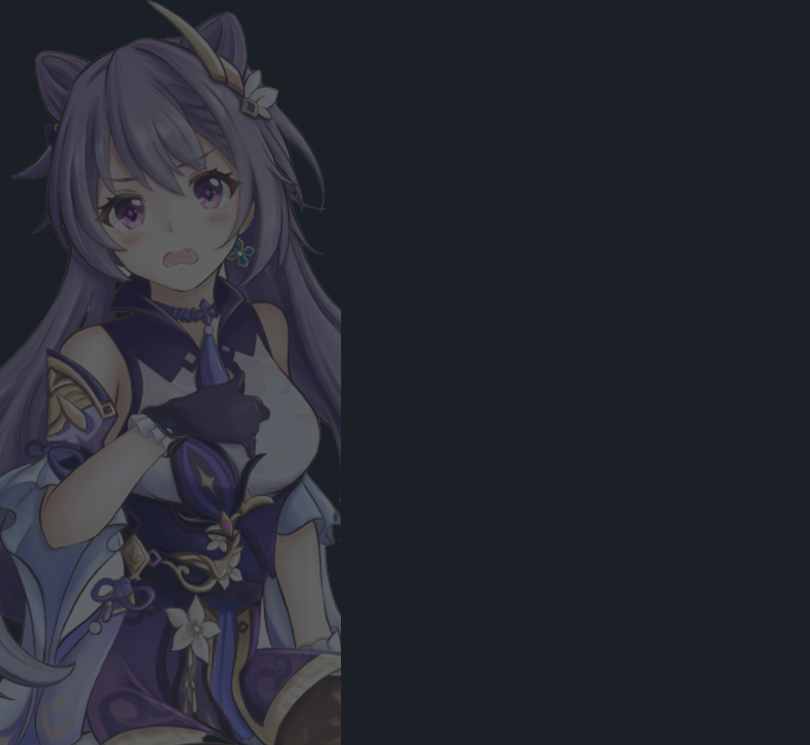
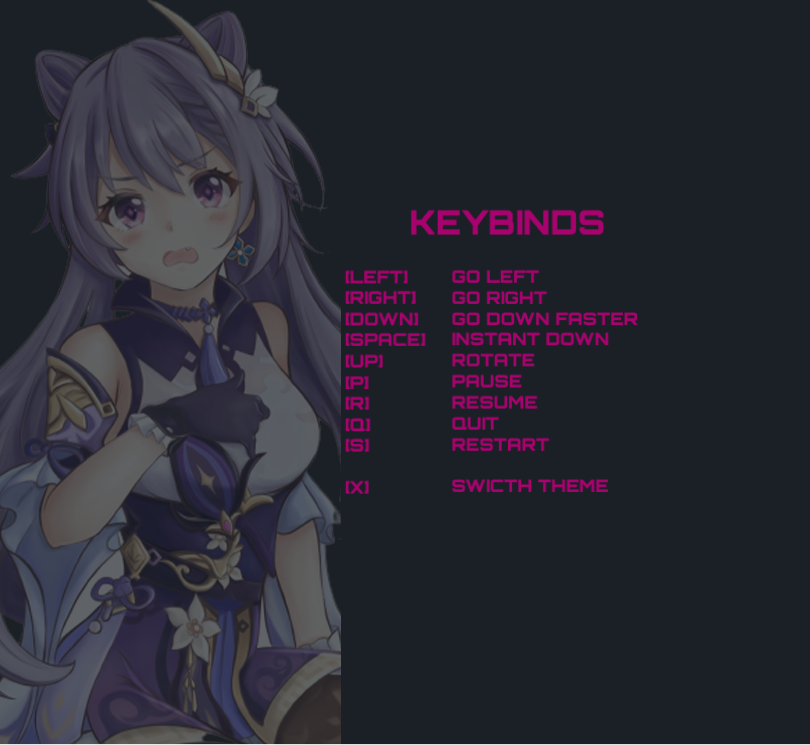
Moved Instructions from code based to BG Image based...

diff --git a/src/main/java/dev/moepoi/Tetris/Main.java b/src/main/java/dev/moepoi/Tetris/Main.java
@@ -174,29 +174,6 @@ public class Main extends JPanel implements FocusListener {
         g.drawString("SCORE:" + score, x, y);
     }
 
-    private void drawInstructions(final Graphics g) {
-        int x = 360;
-        int y = 196 - 35;
-        Font f = new Font(Font.SERIF, Font.BOLD, 40);
-        g.setFont(f);
-        int color = 0x0080FF;
-        g.setColor(new Color(color));
-        g.drawString("Keybinds : ", x, y);
-        Font f1 = new Font(Font.SANS_SERIF, Font.BOLD, 25);
-        g.setColor(new Color(0x8b0000));
-        g.setFont(f1);
-        g.drawString("LEFT - Go Left", x, y + 30);
-        g.drawString("RIGHT - Go Right", x, y + 55);
-        g.drawString("DOWN - Go Down Faster", x, y + 80);
-        g.drawString("SPACE - Go Instant Down", x, y + 105);
-        g.drawString("UP - Rotate Shape", x, y + 130);
-        g.drawString("P - Pause the Game", x, y + 155);
-        g.drawString("R - Resume the Game", x, y + 180);
-        g.drawString("Q - Quit the Game", x, y + 205);
-        g.drawString("S - Restart the Game", x, y + 230);
-        g.drawString("X - Switch Theme", x, y + 300);
-    }
-
     private void drawGameOver(final Graphics g) {
         int x = 175;
         int y = 470;
@@ -218,7 +195,6 @@ public class Main extends JPanel implements FocusListener {
             drawLines(g);
             drawScore(g);
             drawLevel(g);
-            drawInstructions(g);
             drawState(g);
             if (state == GAME_OVER) {
                 drawGameOver(g);
